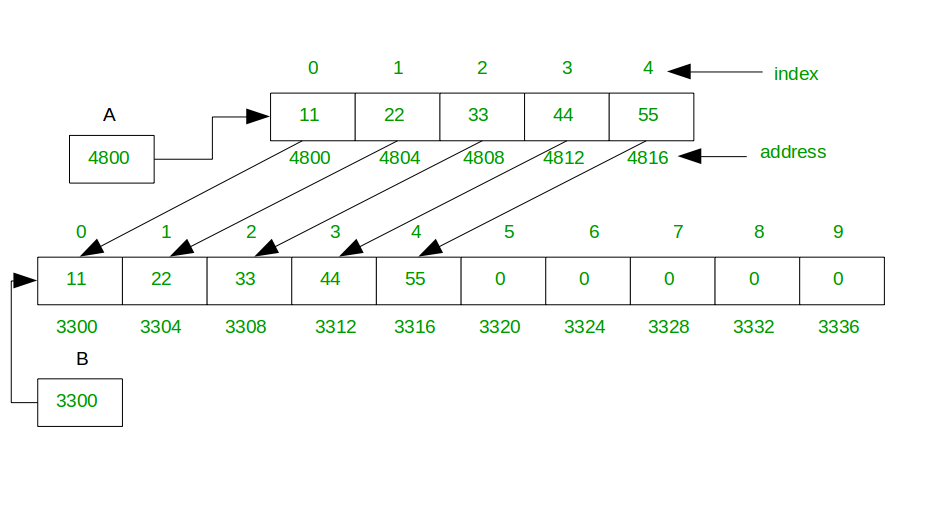
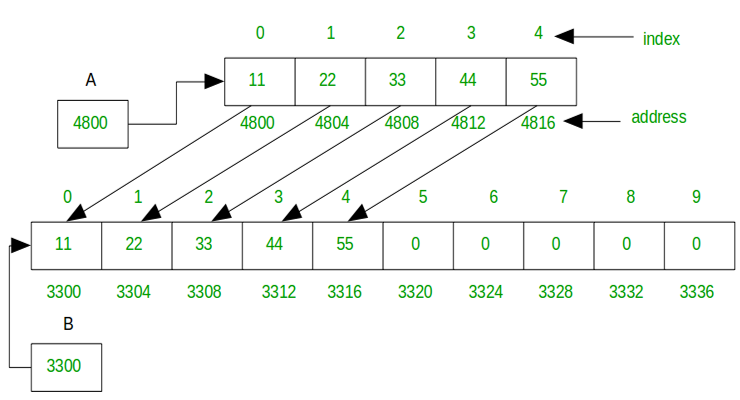
improvement(refine the assets): reseize the figure in Assets

diff --git a/README.md b/README.md
@@ -14,11 +14,11 @@
 
 ### Array
 Array is a kind of data structure that can store a sequential collection of elements of the same type. An array is used to store a collection of data, but it's often more useful to think of an array as a collection of variables of the same type.
-- [Static Array](https://github.com/gaoyuan1223m/TypescriptForAlgorithmsAndDataStructures.git)
+- [Static Array](https://github.com/gaoyuan1223m/TypescriptForAlgorithmsAndDataStructures/blob/master/src/DataStructure/array/static-array.ts)
 
 <img src="assets/img/array/static-arrays.jpg">
 
-- [Dynamic Array](https://github.com/gaoyuan1223m/TypescriptForAlgorithmsAndDataStructures.git)
+- [Dynamic Array](https://github.com/gaoyuan1223m/TypescriptForAlgorithmsAndDataStructures/blob/master/src/DataStructure/array/dynamic-array.ts)
 
 <img src="assets/img/array/dynamic-array.png">
 
